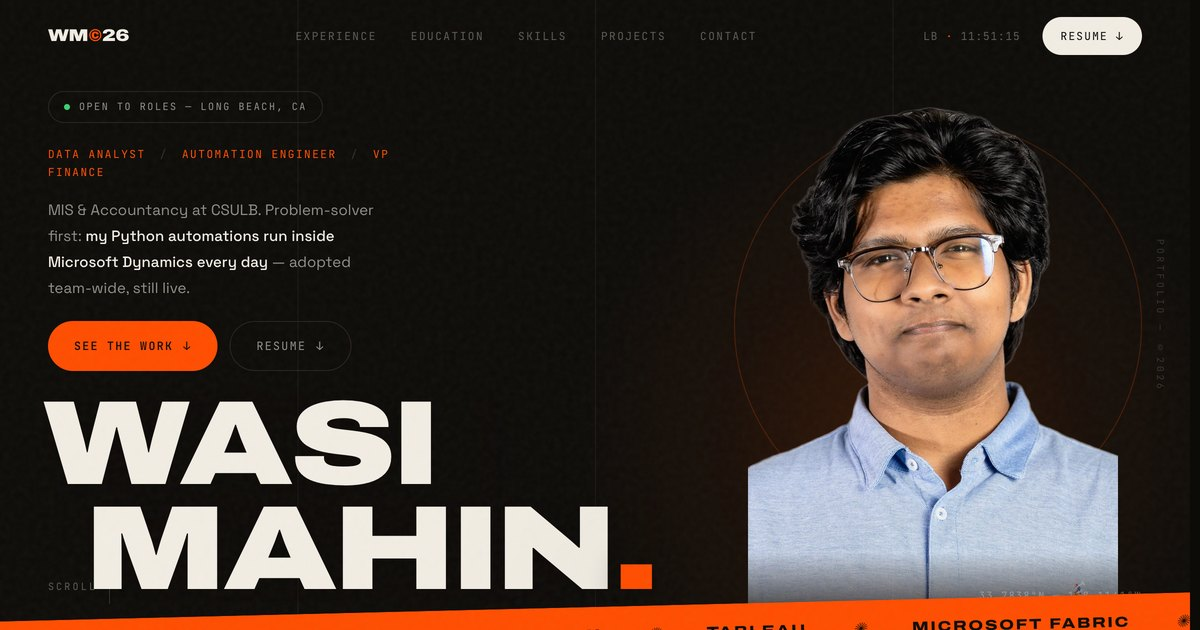
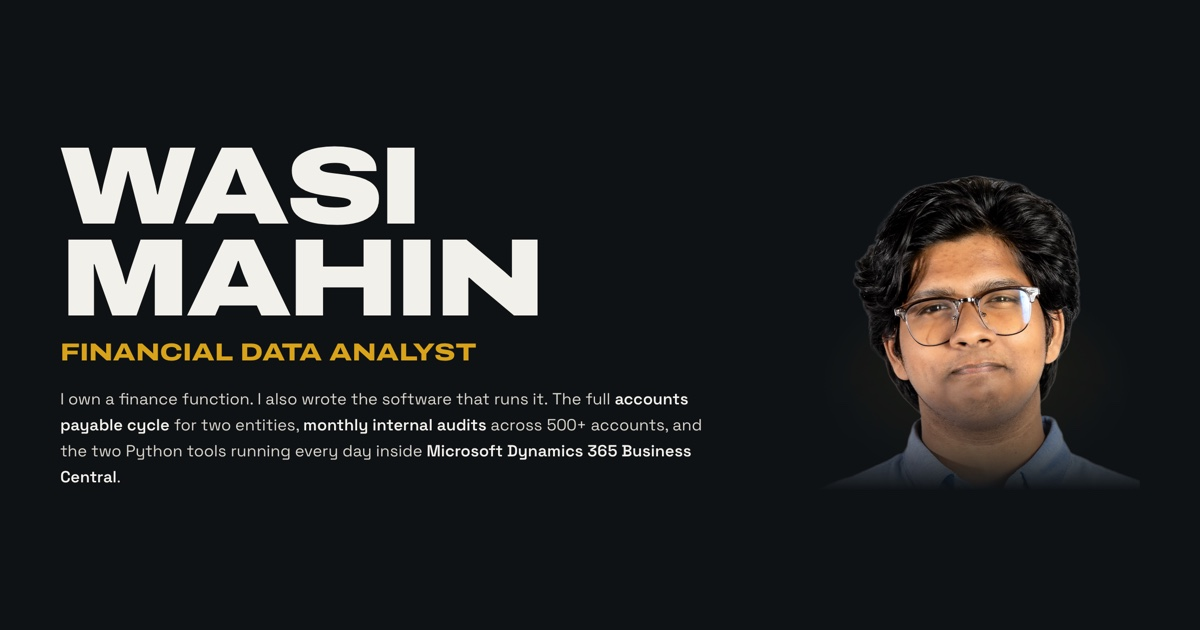
Remove job-seeking language; regenerate the link-preview image
- Status strip: drop "Open to roles worldwide" and its separator. The site
  states facts; availability belongs in email and conversation.
- Contact note: no longer opens with "If you're hiring".
- Remove CSS that only styled the deleted strip item (.lit, .sep, .hide-xs).
- og-image.jpg was still a screenshot of the pre-redesign site, including the
  retired "Open to roles — Long Beach, CA" badge. Regenerated from the current
  design at 1200x630.
- _headers regenerated: inline <style> hash changed.

diff --git a/index.html b/index.html
@@ -172,8 +172,6 @@ a:hover{text-decoration-color:var(--amber);}
 .strip-in{display:flex;align-items:center;gap:clamp(14px,2.4vw,34px);
   height:clamp(42px,5.2vh,52px);overflow:hidden;white-space:nowrap;}
 .strip .mono{font-size:clamp(11px,.9vw,12px);color:var(--dim);}
-.strip .lit{color:var(--amber);}
-.strip .sep{color:var(--rule-2);}
 .strip-mark{font-family:'Archivo',sans-serif;font-variation-settings:'wdth' 125;
   font-weight:900;font-size:clamp(12px,1.1vw,14px);letter-spacing:.02em;color:var(--flap);
   margin-right:auto;text-transform:uppercase;}
@@ -380,7 +378,7 @@ a:hover{text-decoration-color:var(--amber);}
 /* the strip sheds detail rather than clipping */
 @media (max-width:560px){ .strip-in{gap:10px;} }
 @media (max-width:440px){ .strip-in{gap:7px;} .strip-cta{padding:7px 10px;} }
-@media (max-width:359px){ .strip .hide-xs{display:none;} .strip-in{gap:8px;} }
+@media (max-width:359px){ .strip-in{gap:8px;} }
 
 @media (max-width:760px){
   .cols-4,.cols-3,.svc-row{grid-template-columns:1fr;gap:9px;}
@@ -399,8 +397,6 @@ a:hover{text-decoration-color:var(--amber);}
 <div class="strip">
   <div class="wrap strip-in">
     <span class="strip-mark flap">Wasi Mahin</span>
-    <span class="mono lit flap hide-xs">Open to roles<span class="hide-s"> worldwide</span></span>
-    <span class="mono sep hide-s">/</span>
     <span class="mono flap hide-s">Graduating May 2027</span>
     <a class="strip-cta" href="#contact">Get in touch</a>
   </div>
@@ -634,8 +630,8 @@ a:hover{text-decoration-color:var(--amber);}
   <div class="enq-grid">
     <div>
       <h2>Let's<br>talk</h2>
-      <p class="enq-note">If you're hiring in finance analytics, or you want to talk about
-        automating a close, email is the fastest way to reach me. I reply to everything.</p>
+      <p class="enq-note">If you want to talk about finance analytics or automating a close,
+        email is the fastest way to reach me. I reply to everything.</p>
     </div>
 
     <div class="board">
